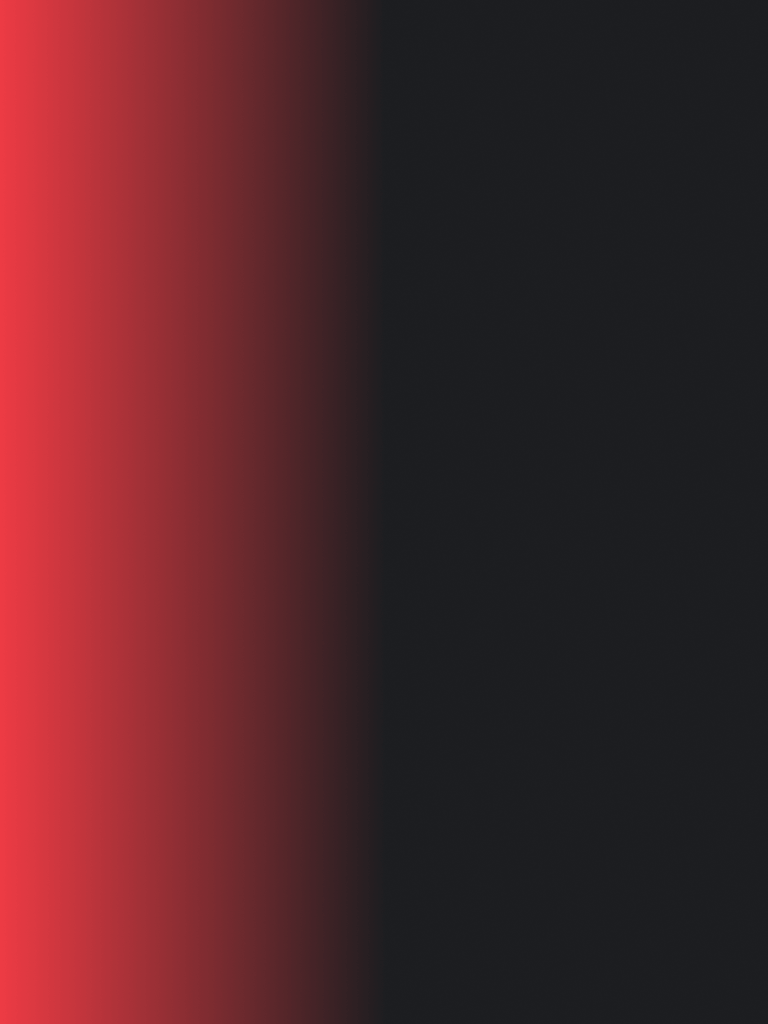
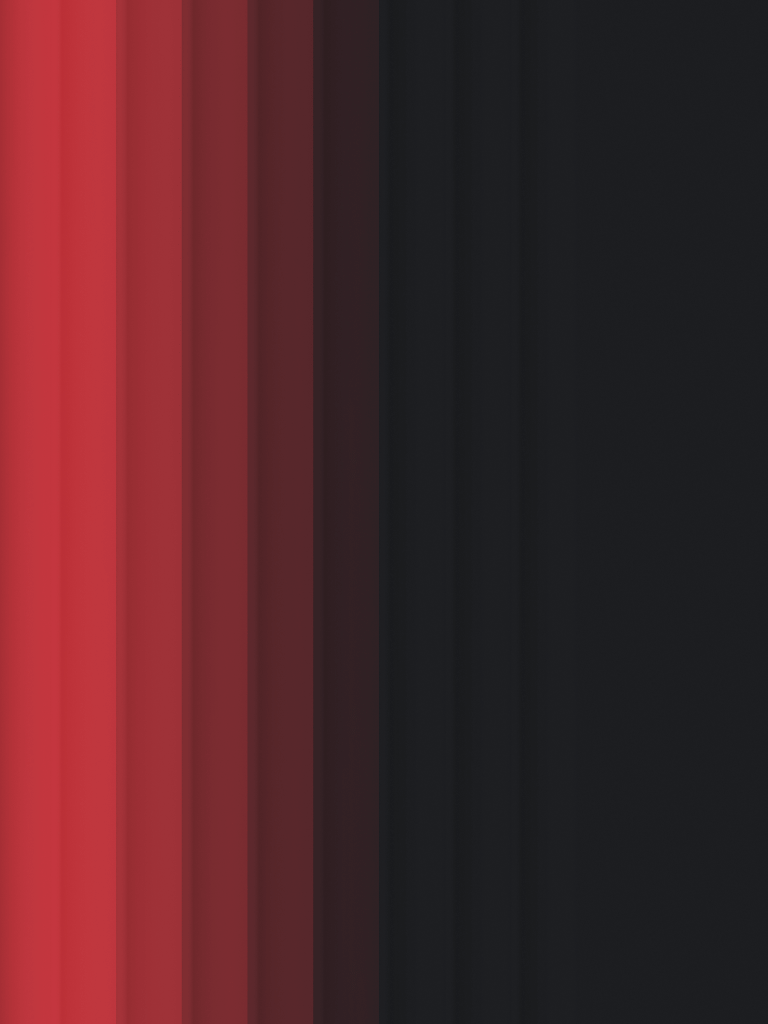
корективи

Changed region(s): [[0.0, 0.0, 0.0625, 1.0]]

diff --git a/src/css/header.css b/src/css/header.css
@@ -4,6 +4,13 @@ header {
 
 .header-container {
     width: 375px;
+    display: flex;
+    justify-content: space-between;
+    align-items: flex-start;
+}
+
+.box-logo {
+    display: flex;
 }
 
 .name-logo {
@@ -21,10 +28,6 @@ header {
     color: #fafafa;
 }
 
-.name-list-menu {
-    display: none;
-}
-
 .link-for-project {
     font: 500 16px "Inter Tight", sans-serif;
     letter-spacing: -0.02em;
@@ -36,14 +39,21 @@ header {
     display: none;
 }
 
-.header-container {
-    display: flex;
-    justify-content: space-between;
-    align-items: flex-start;
+.navigation-menu {
+    text-align: center;
 }
 
-.box-logo {
-    display: flex;
+.nav-modal {
+    margin-top: auto;
+    margin-bottom: auto;
+    /* display: flex;
+    flex-direction: column;
+    align-items: center;
+    gap: 289px; */
+}
+
+.name-list-menu {
+    display: none;
 }
 
 .backdrop {
@@ -65,7 +75,7 @@ header {
 
 .modal {
     width: 375px;
-    background-image: url(../img/img-header/modal.png);
+    background-image: url(../img/img-header/menu.png);
     background-size: cover;
     background-repeat: no-repeat;
     background-position: center;
@@ -81,21 +91,12 @@ header {
 
 @media screen and (min-resolution: 192dpi) and (min-width: 375px) {
     .modal {
-        background-image: url("../img/img-header/modal@2x.png");
+        background-image: url("../img/img-header/menu@2x.png");
     }
 }
 
-.navigation-menu {
-    text-align: center;
-}
-
-.nav-modal {
-    margin-top: auto;
-    margin-bottom: auto;
-}
-
 .box-link-project-modal {
-    border: none;
+    cursor: pointer;
     border-radius: 60px;
     width: 163px;
     height: 55px;
@@ -177,7 +178,7 @@ header {
     transition: opacity 250ms cubic-bezier(0.4, 0, 0.2, 1), visibility 250ms cubic-bezier(0.4, 0, 0.2, 1);
 }
 
-.backdrop-for-btn-menu.is-open-for-btn-menu {
+.is-open-for-btn-menu {
     opacity: 1;
     visibility: visible;
 }
@@ -212,6 +213,7 @@ header {
     }
 
        .box-link-project {
+        cursor: pointer;
         display: block;
         border: none;
         border-radius: 60px;

diff --git a/src/partials/header.html b/src/partials/header.html
@@ -13,9 +13,9 @@
         <p class="name-list-menu">Menu</p>
 
 
-            <button class="box-link-project">
-                <a href="#footer" class="link-for-project" >Order the project</a>
-            </button>
+        <div class="box-link-project">
+            <a href=#footer class="link-for-project">Order the project</a>
+        </div>
 
         <button class="btn-open-burger" type="button">
             <svg class="icon-burger-svg" width="28" height="28">
@@ -44,18 +44,19 @@
         <li class="item-navigation-menu" id="js-close-menu-3"><a href="#projects">Projects</a></li>
         <li class="item-navigation-menu" id="js-close-menu-4"><a href="#faq">FAQ</a></li>
     </ul>       
+       
     </nav> 
+    <div class="box-link-project">
+        <a href=#footer class="link-for-project">Order the project</a>
+    </div>
 
-    <button class="box-link-project-modal">
-        <a href="#footer" class="link-for-project">Order the project</a>
-    </button>
     
     </div>
 </div>
 <script src="./js/header-modal.js" type="module" defer></script>
 
 
-<div class="backdrop-for-btn-menu">
+<div class="backdrop-for-btn-menu .is-open-for-btn-menu">
     <nav class="nav-modal-btn-menu">
         <ul class="navigation-for-btn-menu">
             <li class="item-for-btn-menu" id="js-close-menu-111"><a href="#aboutme">About me</a></li>

diff --git a/src/css/hero.css b/src/css/hero.css
@@ -13,14 +13,14 @@
 .hero, header {
     background-size: cover;
         background-image:
-            url("../img/img-hero/hero-phone.png");
+            url("../img/img-hero/phone-hero.png");
         background-repeat: no-repeat;
         background-position: center;
 }
 
 @media screen and (min-resolution: 192dpi) and (min-width: 375px) {
     .hero, header {
-        background-image: url("../img/img-hero/hero-phone@2x.png");
+        background-image: url("../img/img-hero/phone-hero@2x.png");
     }
 }
 
@@ -113,13 +113,13 @@
     .hero,
     header {
         background-image:
-            url("../img/img-hero/hero-desktop.png");
+            url("../img/img-hero/desktop-hero.png");
     }
        
     @media screen and (min-resolution: 192dpi) and (min-width: 1440px) {
     .hero,
     header {
-        background-image: url("../img/img-hero/hero-desktop@2x.png");
+        background-image: url("../img/img-hero/desktop-hero@2x.png");
     }
 }
 }
